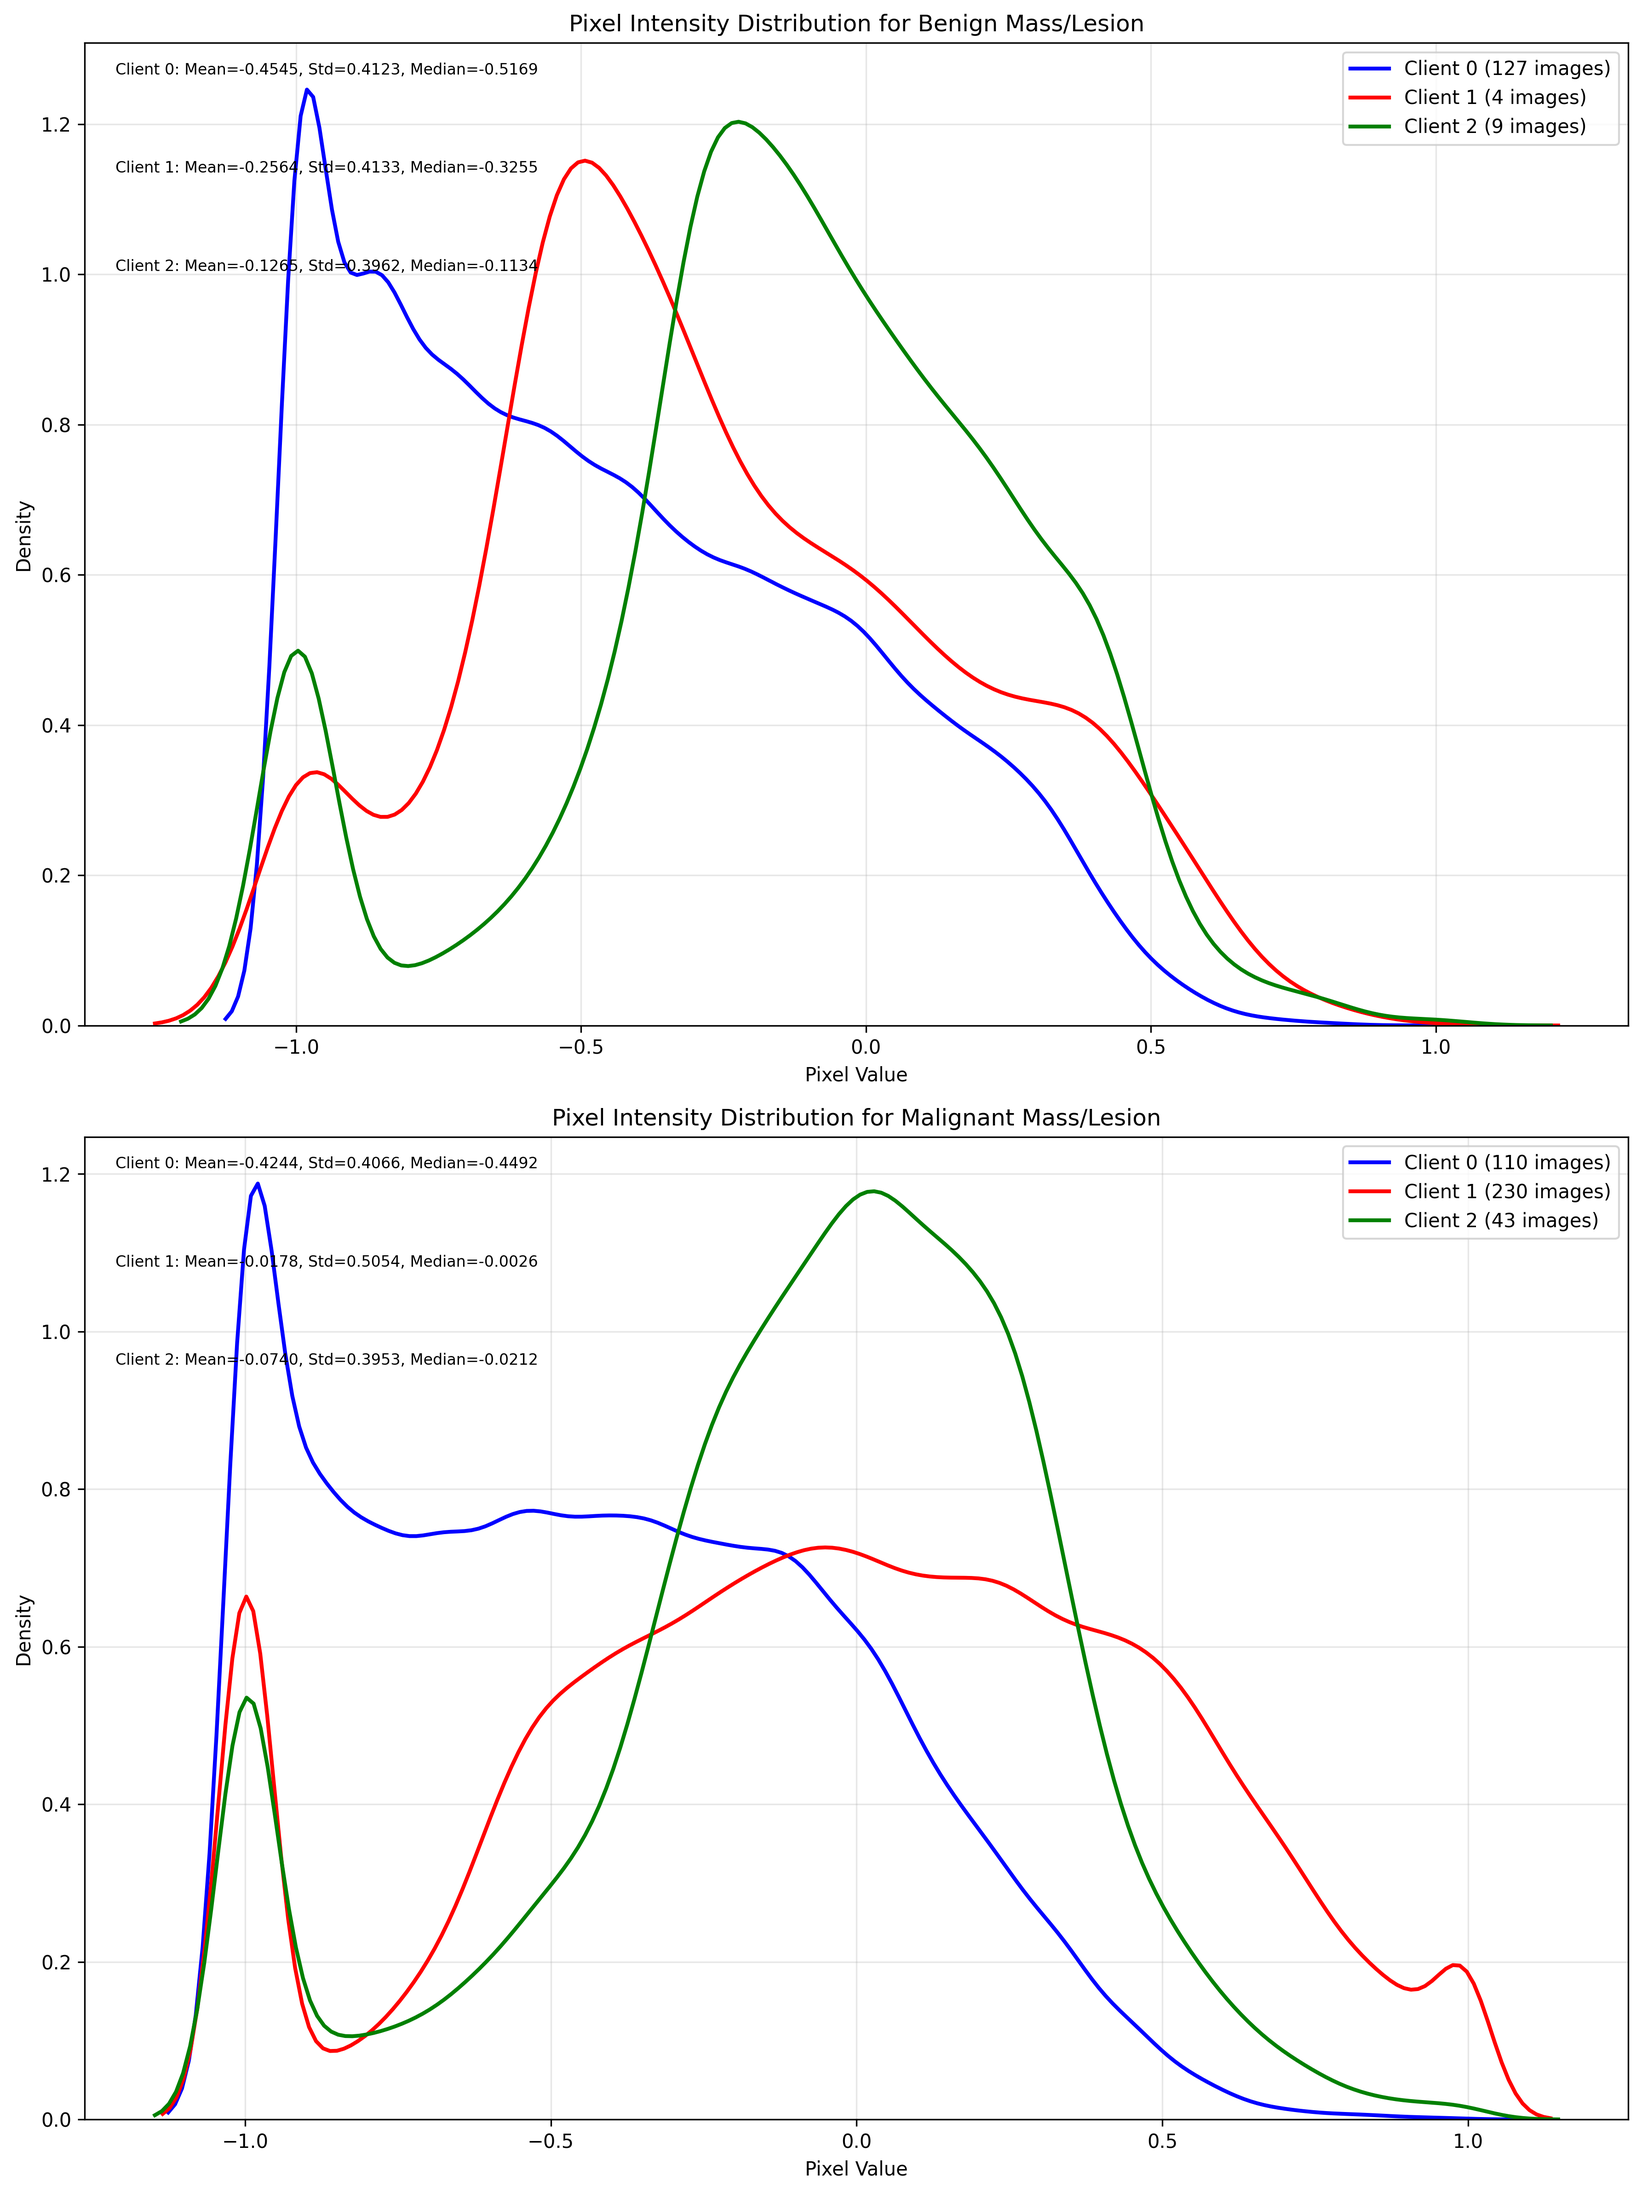
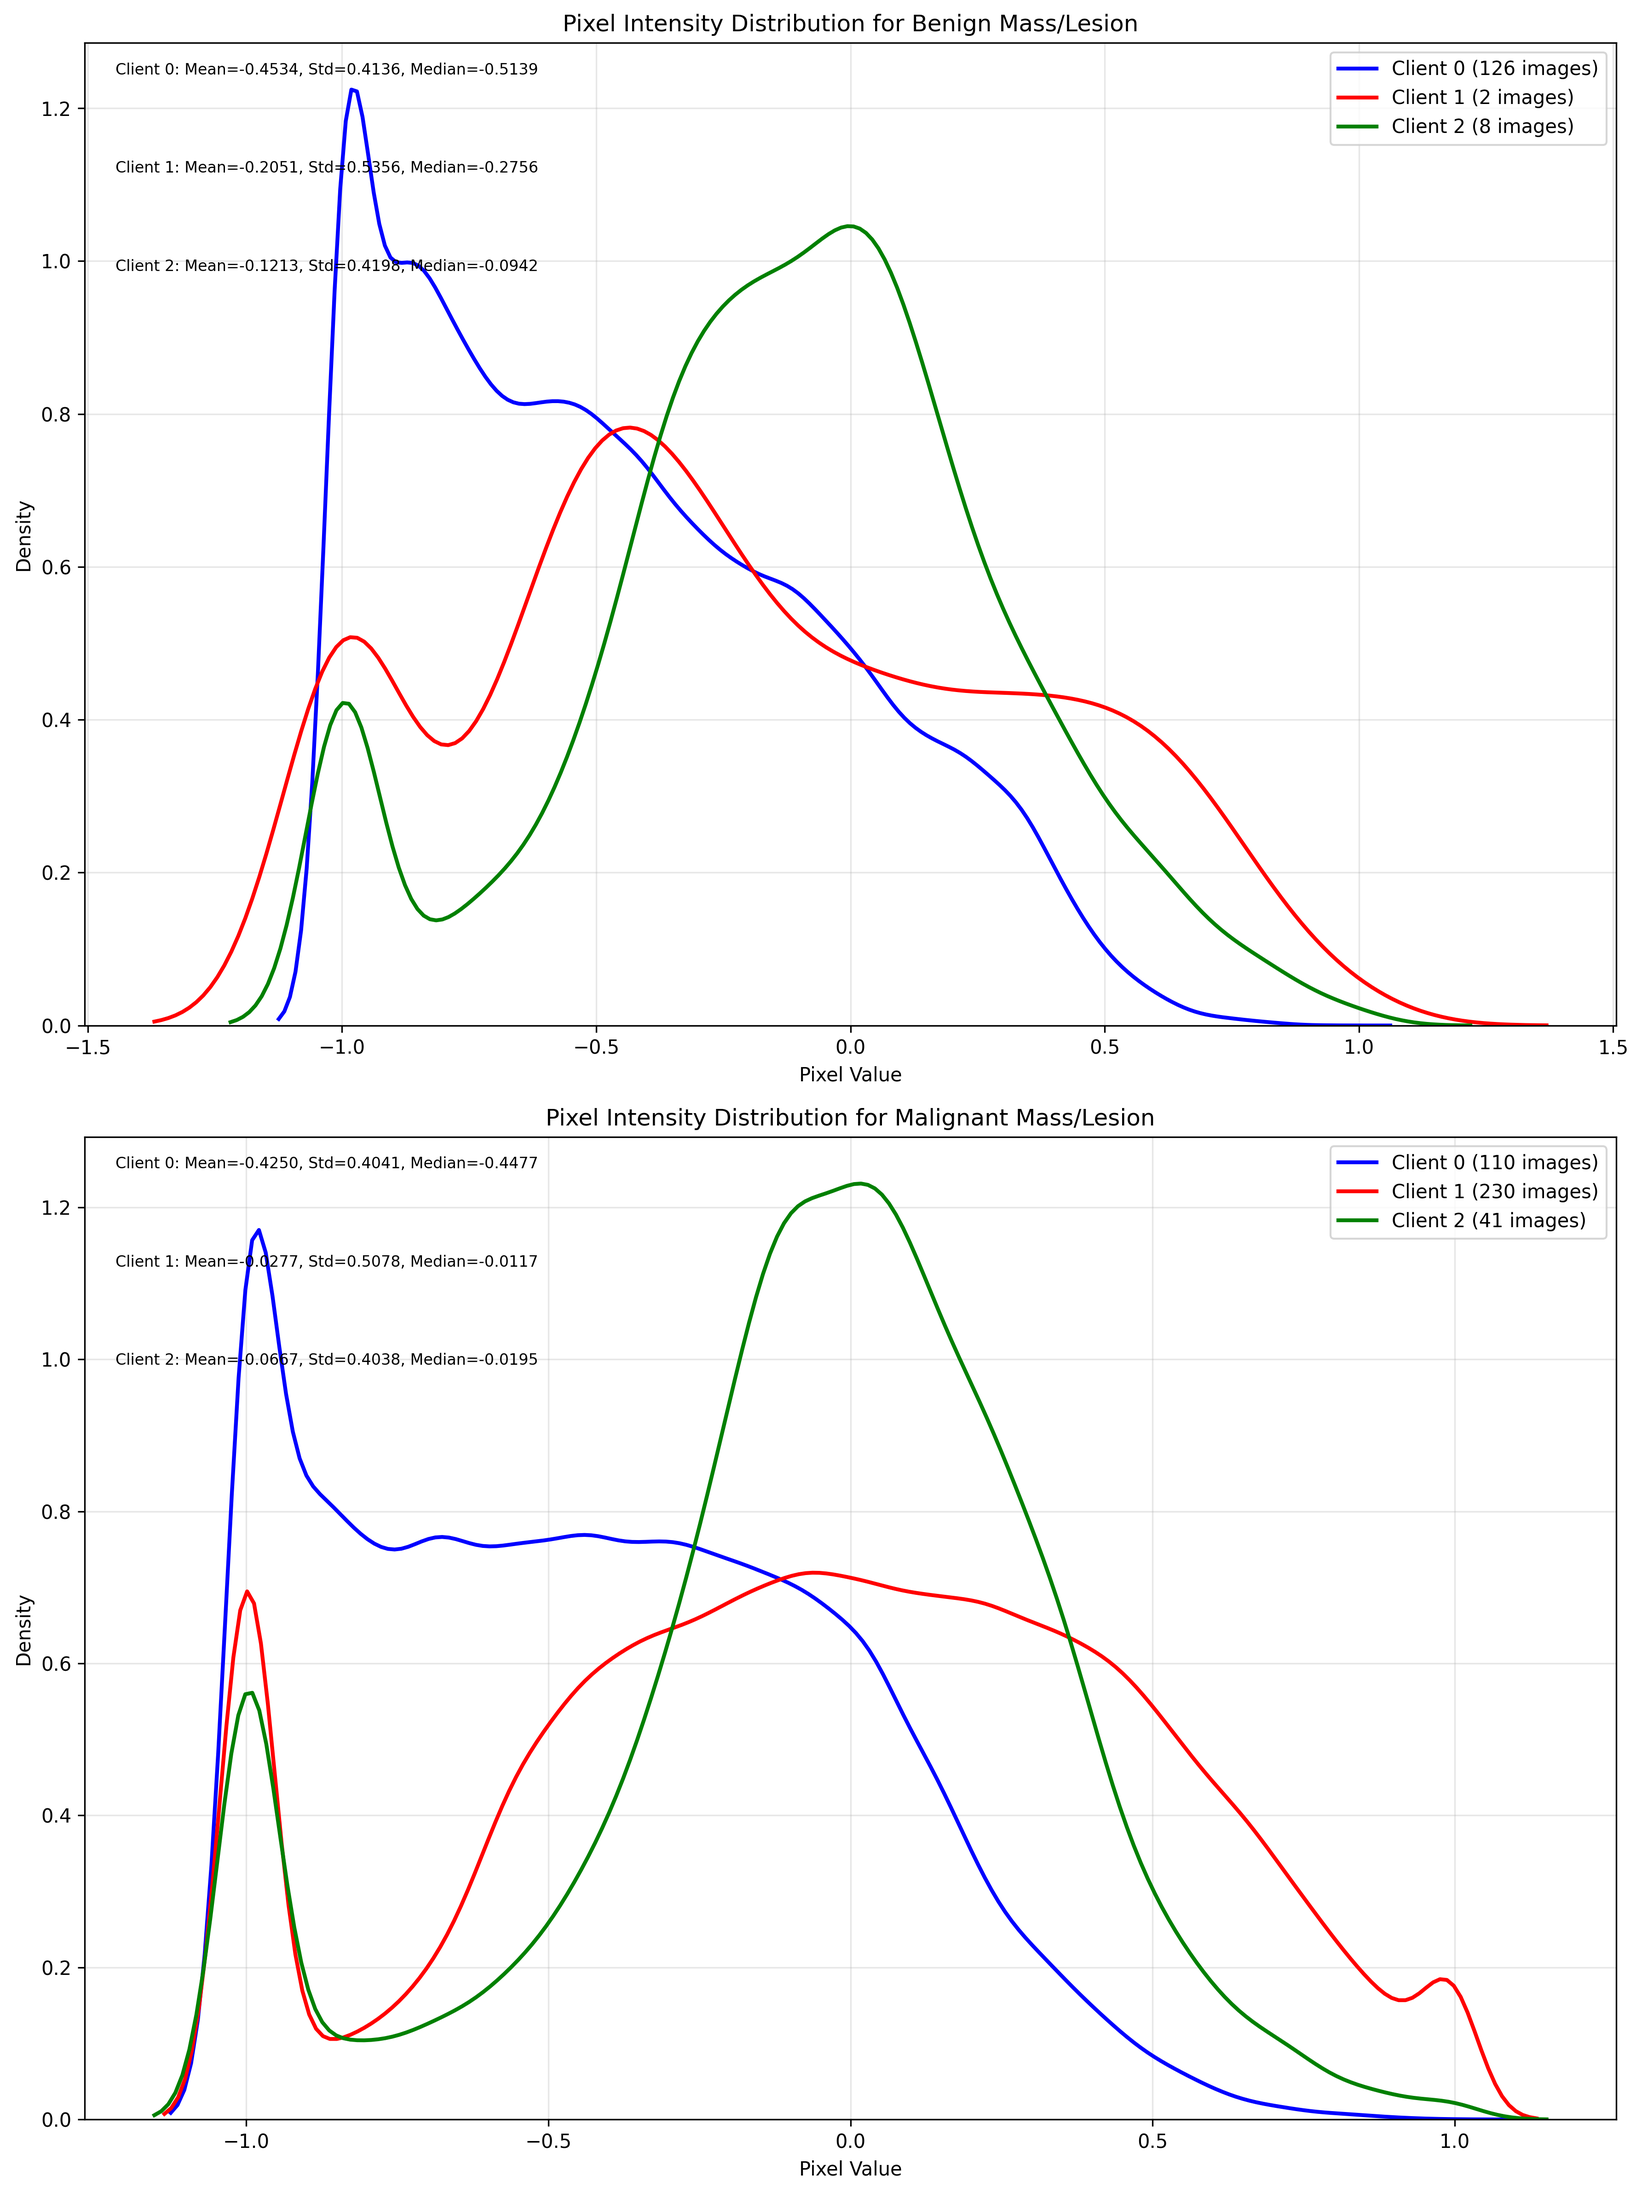
add first gpaf vS"ersion

diff --git a/simulation/fedprox/fedprox/models.py b/simulation/fedprox/fedprox/models.py
@@ -693,7 +693,7 @@ def train_one_epoch_gpaf(encoder,classifier,discriminator,trainloader, DEVICE,cl
             reduction='batchmean'
             )
             # Add contrastive loss
-            contrast_loss = contrastive_loss(local_features, global_features, temperature=0.5)
+            contrast_loss = contrastive_loss(local_features, global_z, temperature=0.5)
         
             # Combine losses
             lambda_confusion = 1.0
